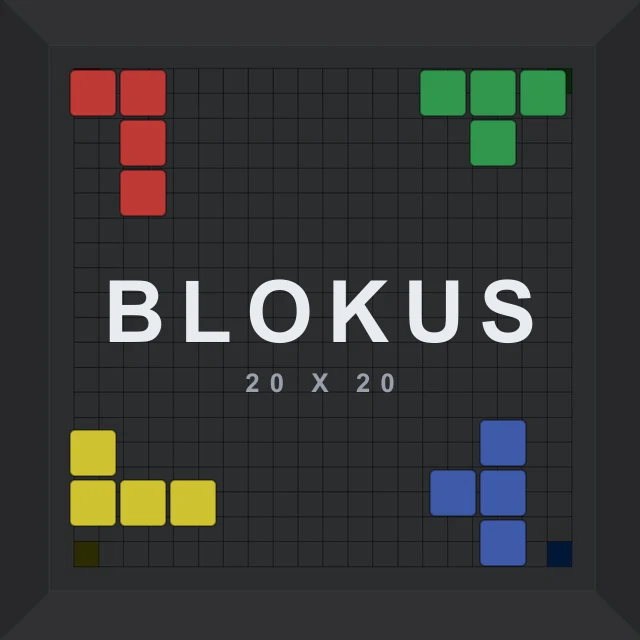
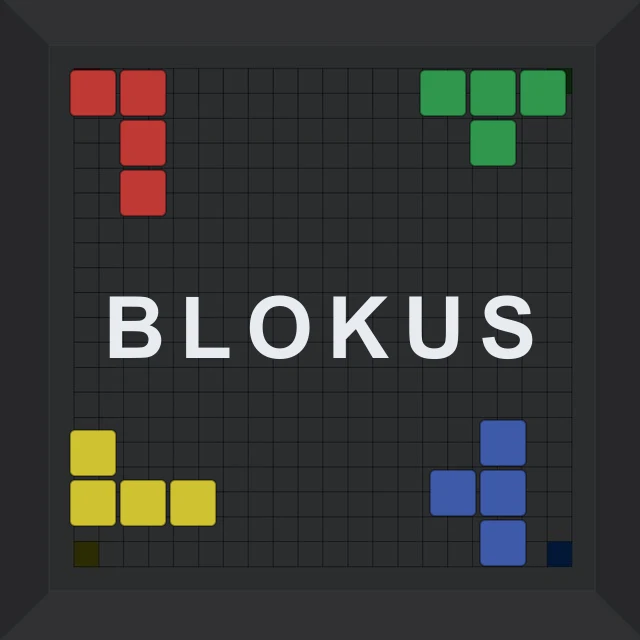
Lobby tiles: drop the 20 X 20 subtitle from the Blokus tile; SETI tile is now the official CGE box render (BGG pic8159927) on a dark square, replacing the rulebook cover and the text-mark overlay

diff --git a/client/src/pages/SelectGame.tsx b/client/src/pages/SelectGame.tsx
@@ -366,9 +366,7 @@ export function SelectGame() {
                 onClick={() => setGame(g)}
               >
                 <span className="game-tile-art" aria-hidden="true">
-                  {g.id === 'seti'
-                    ? <span className="seti-catalog-mark"><i /><b>SETI</b><small>SEARCH FOR<br />EXTRATERRESTRIAL<br />INTELLIGENCE</small></span>
-                    : <img src={g.logo} alt="" />}
+                  <img src={g.logo} alt="" />
                 </span>
                 <span className="game-tile-name">{g.name}</span>
               </button>